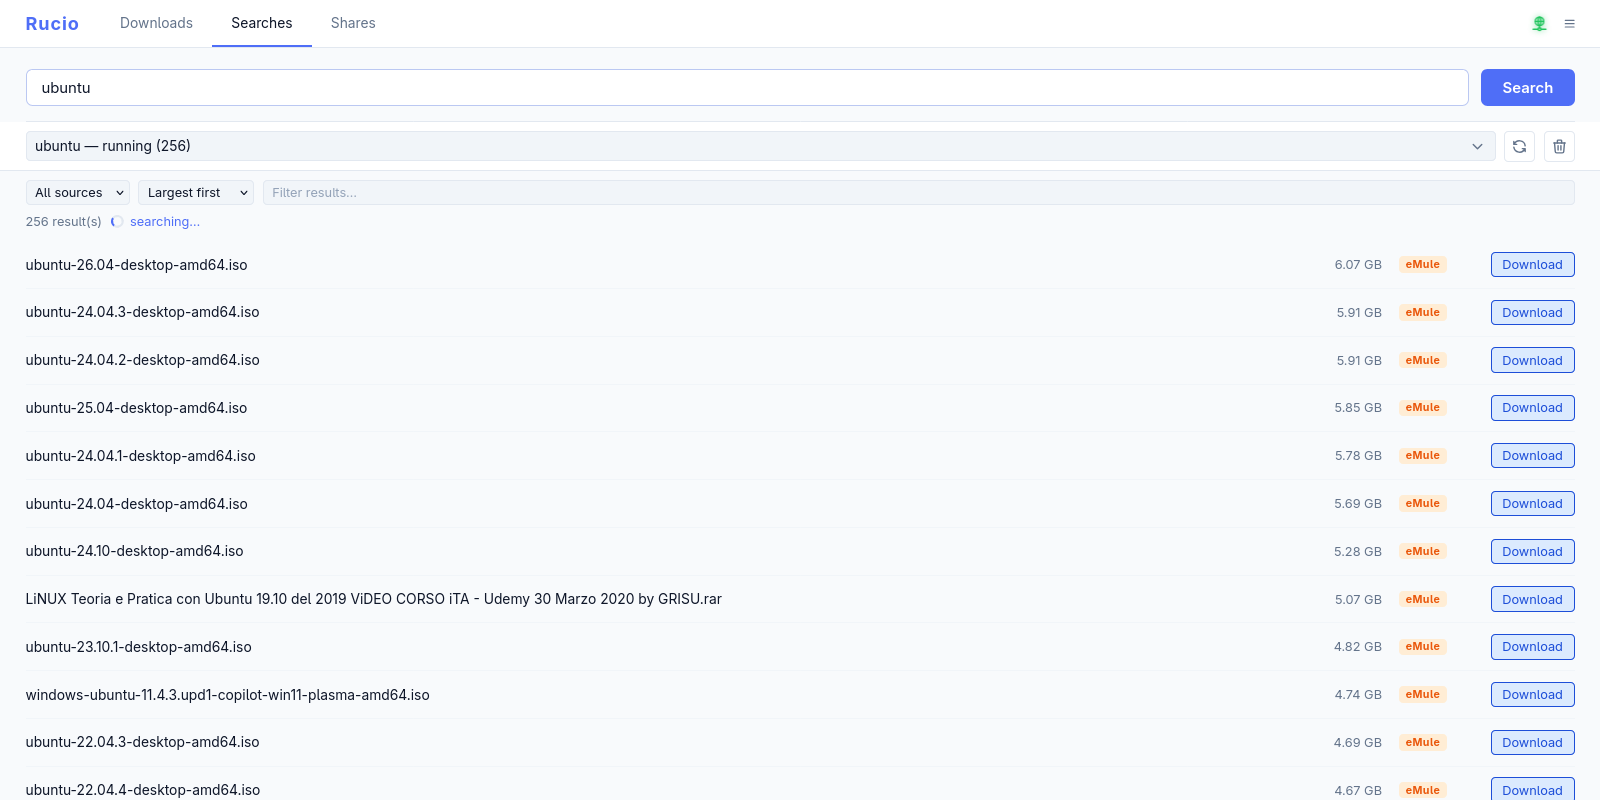
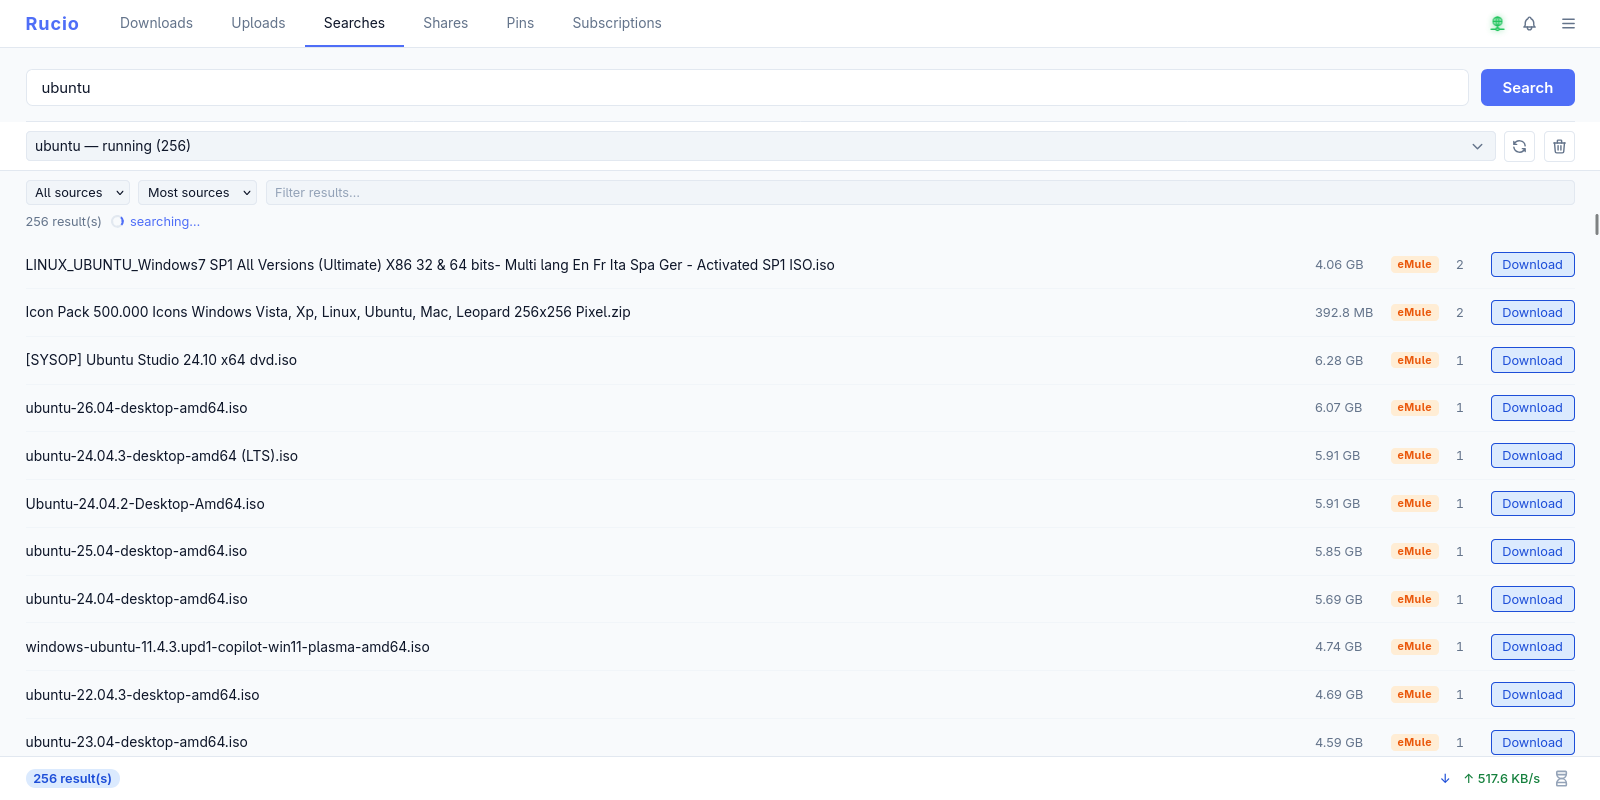
feat(website): featured panel shot, screenshot gallery, custom domain
Promote panel.png to a full-width hero shot and add the six secondary
screenshots as a two-row gallery of thumbnails, each opening full size in
a pure-CSS (:target) lightbox — no JavaScript. Add a CNAME for the
rucio.ogarcia.me custom domain (peaceiris overwrites gh-pages on every
deploy, so it has to live in website/). Switch the social preview image to
a rasterized brand icon (SVG isn't rendered by social platforms) with an
absolute og:url, and use a square summary card to match it.

diff --git a/website/index.html b/website/index.html
@@ -13,13 +13,16 @@
 
     <!-- Open Graph / social preview -->
     <meta property="og:type" content="website" />
+    <meta property="og:url" content="https://rucio.ogarcia.me/" />
     <meta property="og:title" content="Rucio — decentralized P2P file sharing" />
     <meta
       property="og:description"
       content="Peer-to-peer file sharing in Rust over libp2p, with eMule/Kad2 compatibility. No trackers, no central servers."
     />
-    <meta property="og:image" content="panel.png" />
-    <meta name="twitter:card" content="summary_large_image" />
+    <meta property="og:image" content="https://rucio.ogarcia.me/og-image.png" />
+    <meta property="og:image:width" content="1200" />
+    <meta property="og:image:height" content="1200" />
+    <meta name="twitter:card" content="summary" />
 
     <style>
       :root {
@@ -211,6 +214,76 @@
         color: var(--text-3);
       }
 
+      /* Secondary screenshots: two rows of three thumbnails. */
+      .gallery {
+        display: grid;
+        grid-template-columns: repeat(3, minmax(0, 1fr));
+        gap: 1rem;
+        margin: 0 0 3.5rem;
+      }
+      @media (max-width: 640px) {
+        .gallery {
+          grid-template-columns: 1fr;
+        }
+      }
+      .gallery figure {
+        margin: 0;
+      }
+      .gallery .shot-link {
+        display: block;
+        cursor: zoom-in;
+      }
+      .gallery img {
+        width: 100%;
+        height: auto;
+        display: block;
+        border: 1px solid var(--border);
+        border-radius: 0.5rem;
+        box-shadow: var(--shadow);
+        transition: transform 0.12s ease, border-color 0.15s;
+      }
+      .gallery .shot-link:hover img {
+        transform: translateY(-2px);
+        border-color: var(--accent);
+      }
+      .gallery figcaption {
+        margin-top: 0.5rem;
+        text-align: center;
+        font-size: 0.8rem;
+        color: var(--text-3);
+      }
+
+      /* Pure-CSS lightbox driven by :target — no JavaScript. A thumbnail links
+         to #lb-<name>; the matching overlay below becomes visible, and clicking
+         the backdrop (a link to #screenshots) closes it. */
+      .lightbox {
+        position: fixed;
+        inset: 0;
+        z-index: 50;
+        display: none;
+        align-items: center;
+        justify-content: center;
+        padding: 2rem;
+        background: rgba(15, 23, 42, 0.85);
+      }
+      .lightbox:target {
+        display: flex;
+      }
+      .lightbox .lightbox-bg {
+        position: absolute;
+        inset: 0;
+        cursor: zoom-out;
+      }
+      .lightbox img {
+        position: relative;
+        max-width: min(1100px, 100%);
+        max-height: 90vh;
+        width: auto;
+        height: auto;
+        border-radius: 0.5rem;
+        box-shadow: var(--shadow);
+      }
+
       /* ── Sections ───────────────────────────────────────────── */
       section.block {
         padding: 2.5rem 0;
@@ -354,15 +427,77 @@
         </ul>
       </section>
 
-      <div class="shots">
+      <div class="shots" id="screenshots">
         <figure>
           <img src="panel.png" alt="Rucio web panel showing active transfers" />
           <figcaption>The built-in web control panel — transfers, shares and node status.</figcaption>
         </figure>
+      </div>
+
+      <!-- Secondary screenshots: click a thumbnail to view it full size. -->
+      <div class="gallery">
         <figure>
-          <img src="searches.png" alt="Rucio search results across the rucio and eMule networks" />
+          <a class="shot-link" href="#lb-searches">
+            <img src="searches.png" alt="Unified search across the rucio and eMule networks" />
+          </a>
           <figcaption>Unified search across the rucio and eMule networks.</figcaption>
         </figure>
+        <figure>
+          <a class="shot-link" href="#lb-downloading">
+            <img src="downloading.png" alt="Downloads in progress with live speed and ETA" />
+          </a>
+          <figcaption>Downloads with live speed, ETA and per-peer sources.</figcaption>
+        </figure>
+        <figure>
+          <a class="shot-link" href="#lb-shares">
+            <img src="shares.png" alt="Shared folders indexed and announced to the network" />
+          </a>
+          <figcaption>Share folders — every file inside is hashed and announced.</figcaption>
+        </figure>
+        <figure>
+          <a class="shot-link" href="#lb-subscriptions">
+            <img src="subscriptions.png" alt="Subscriptions following a peer's published collections" />
+          </a>
+          <figcaption>Subscribe to a peer's collections and sync their files.</figcaption>
+        </figure>
+        <figure>
+          <a class="shot-link" href="#lb-pins">
+            <img src="pins.png" alt="Pinned content kept available on the node" />
+          </a>
+          <figcaption>Pin content by magnet or hash to keep it available.</figcaption>
+        </figure>
+        <figure>
+          <a class="shot-link" href="#lb-notifications">
+            <img src="notifications.png" alt="Notifications for completed transfers and node events" />
+          </a>
+          <figcaption>Notifications for completed transfers and node events.</figcaption>
+        </figure>
+      </div>
+
+      <!-- Pure-CSS lightbox overlays (one per thumbnail above). -->
+      <div class="lightbox" id="lb-searches">
+        <a class="lightbox-bg" href="#screenshots" aria-label="Close"></a>
+        <img src="searches.png" alt="Unified search across the rucio and eMule networks" />
+      </div>
+      <div class="lightbox" id="lb-downloading">
+        <a class="lightbox-bg" href="#screenshots" aria-label="Close"></a>
+        <img src="downloading.png" alt="Downloads in progress with live speed and ETA" />
+      </div>
+      <div class="lightbox" id="lb-shares">
+        <a class="lightbox-bg" href="#screenshots" aria-label="Close"></a>
+        <img src="shares.png" alt="Shared folders indexed and announced to the network" />
+      </div>
+      <div class="lightbox" id="lb-subscriptions">
+        <a class="lightbox-bg" href="#screenshots" aria-label="Close"></a>
+        <img src="subscriptions.png" alt="Subscriptions following a peer's published collections" />
+      </div>
+      <div class="lightbox" id="lb-pins">
+        <a class="lightbox-bg" href="#screenshots" aria-label="Close"></a>
+        <img src="pins.png" alt="Pinned content kept available on the node" />
+      </div>
+      <div class="lightbox" id="lb-notifications">
+        <a class="lightbox-bg" href="#screenshots" aria-label="Close"></a>
+        <img src="notifications.png" alt="Notifications for completed transfers and node events" />
       </div>
 
       <section class="block" id="features">